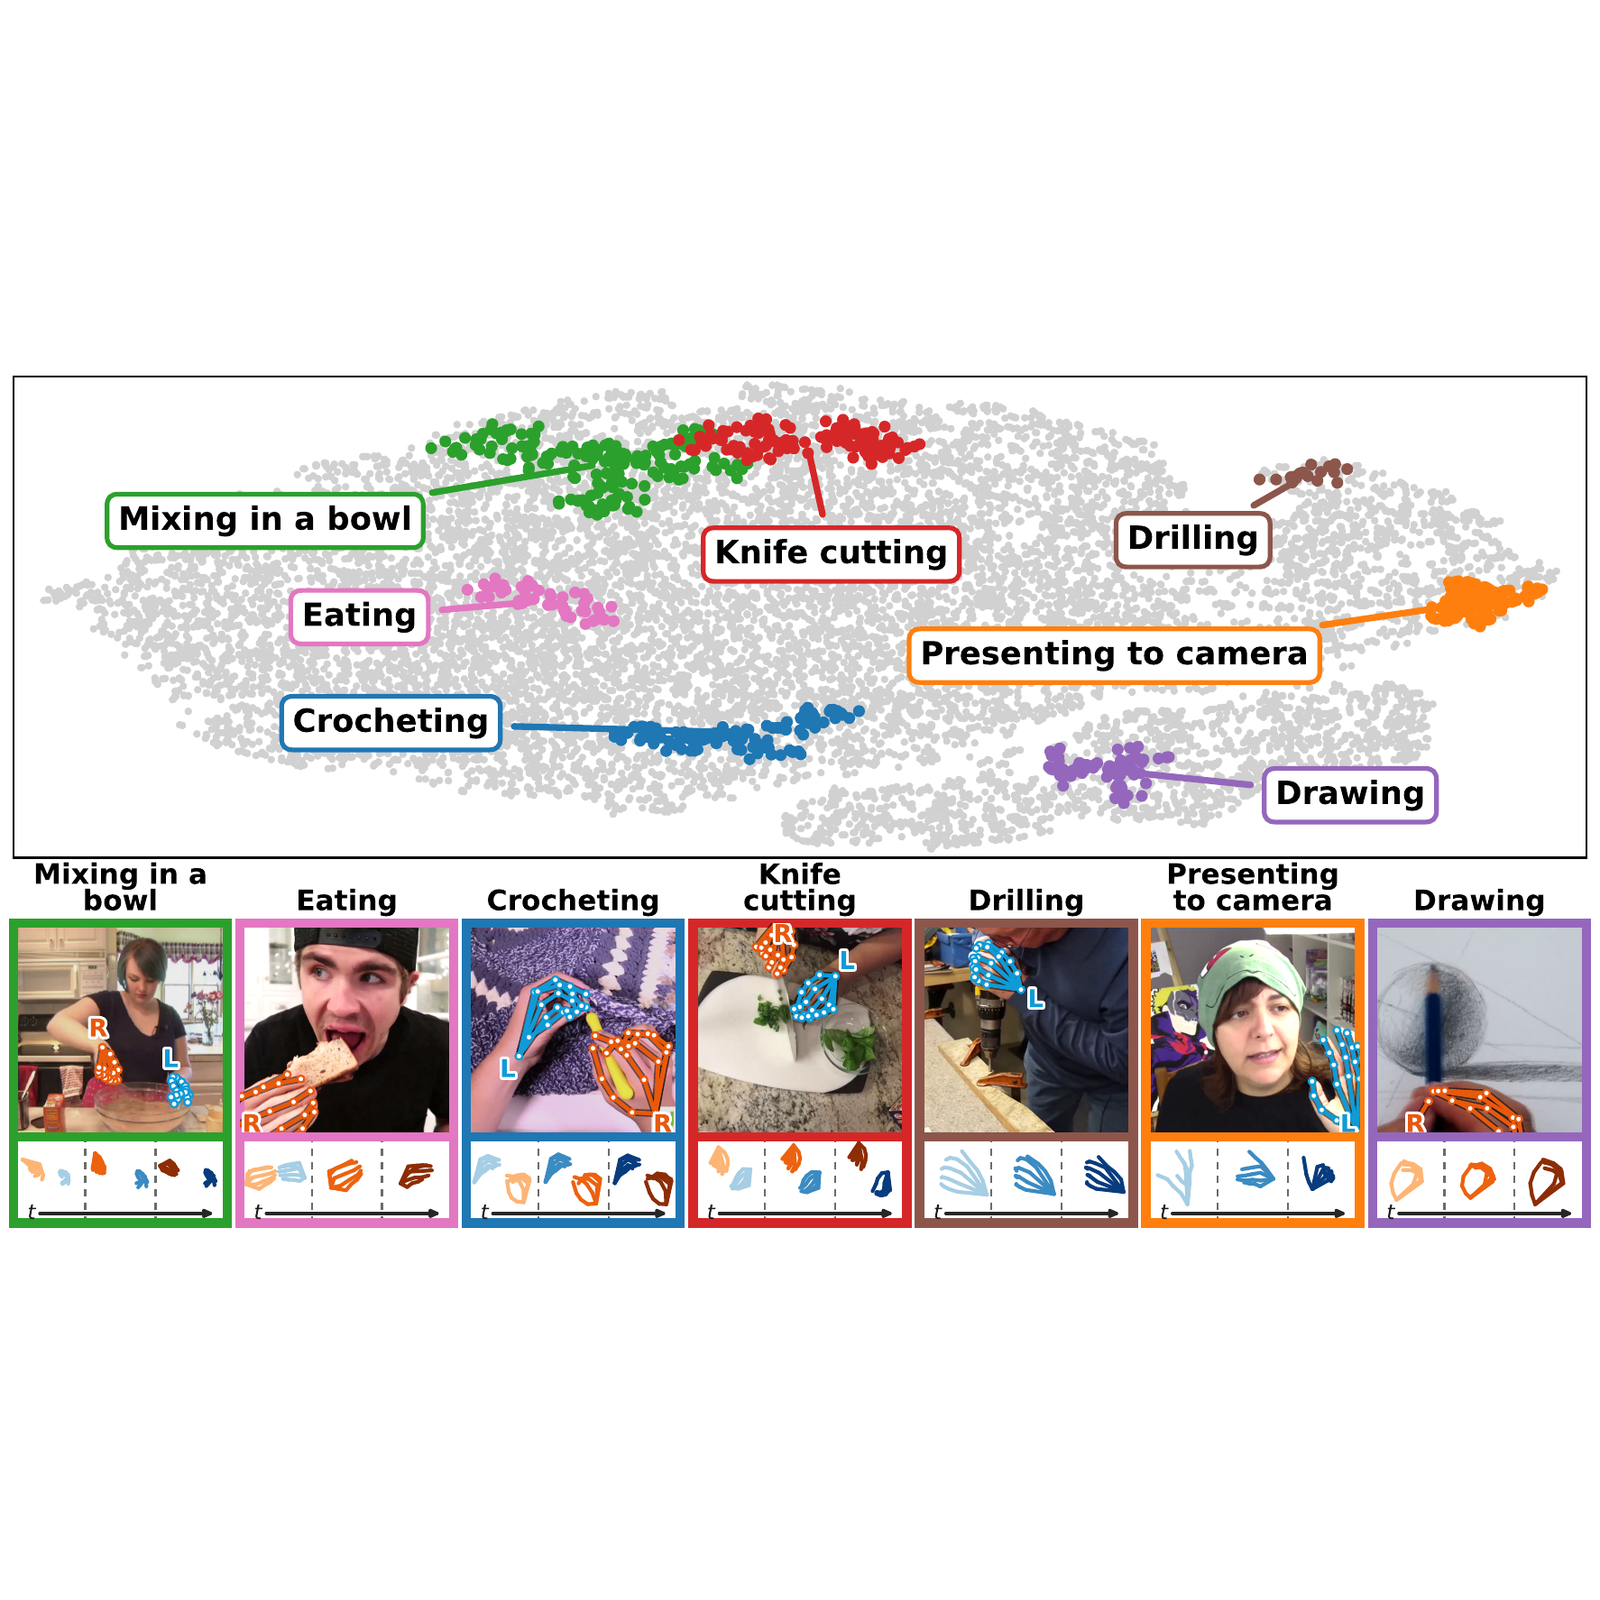
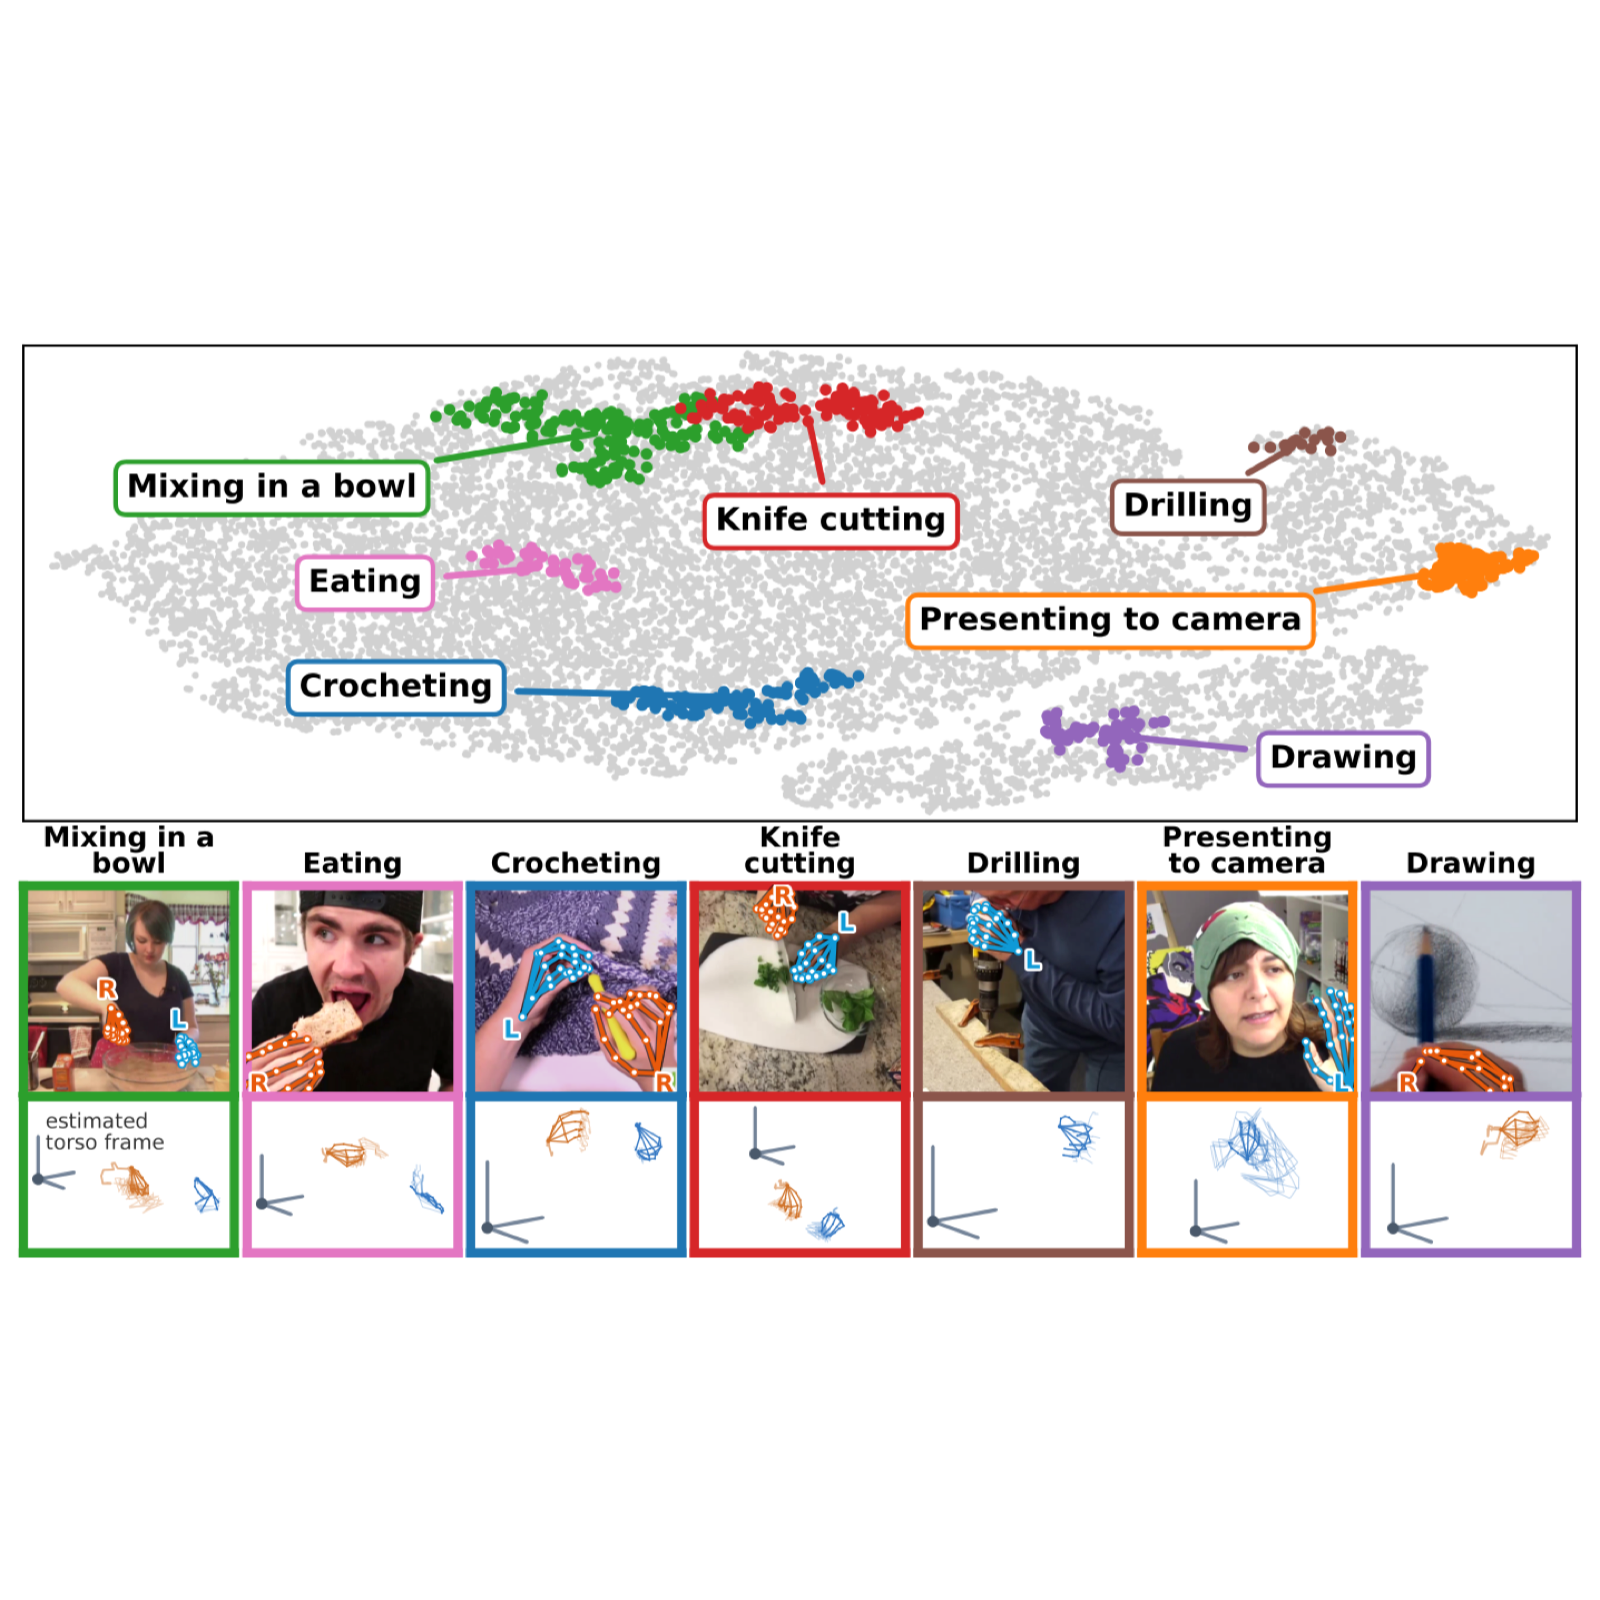
Add V2D win, Sensorimotor Alignment paper, and refresh thumbnails
- News: add NVIDIA V2D Challenge 1st place (Tracks 1 and 2); new
  thumbnails for RoboTok showcase, podcast, IROS oral, and Active
  Perception workshop entries
- Publications: add Sensorimotor Alignment (arXiv 2610.31670); use
  RoboTok v2 teaser figure
- Enlarge publication thumbnails

diff --git a/assets/styles.css b/assets/styles.css
@@ -158,7 +158,7 @@ main { padding: 64px 0 0; min-width: 0; }
 /* --------------------------------------------------------- publications */
 .pub-list { display: grid; gap: 6px; margin: 0 -18px; }
 .pub {
-  display: grid; grid-template-columns: 96px 1fr; gap: 20px; align-items: start;
+  display: grid; grid-template-columns: 220px 1fr; gap: 28px; align-items: start;
   padding: 18px; border-radius: var(--radius-lg); border: 1px solid transparent;
   transition: background 0.2s ease, border-color 0.2s ease, box-shadow 0.2s ease;
 }
@@ -264,7 +264,7 @@ main { padding: 64px 0 0; min-width: 0; }
   .pub-list, .timeline { margin: 0; }
   .pub, .tl-item { padding: 16px; }
   .pub { grid-template-columns: 1fr; gap: 14px; }
-  .pub-thumb { width: 88px; }
+  .pub-thumb { width: 180px; }
   .tl-item { grid-template-columns: 1fr; gap: 8px; }
   .contact-panel { justify-items: stretch; }
   .contact-panel .btn { justify-content: center; }
